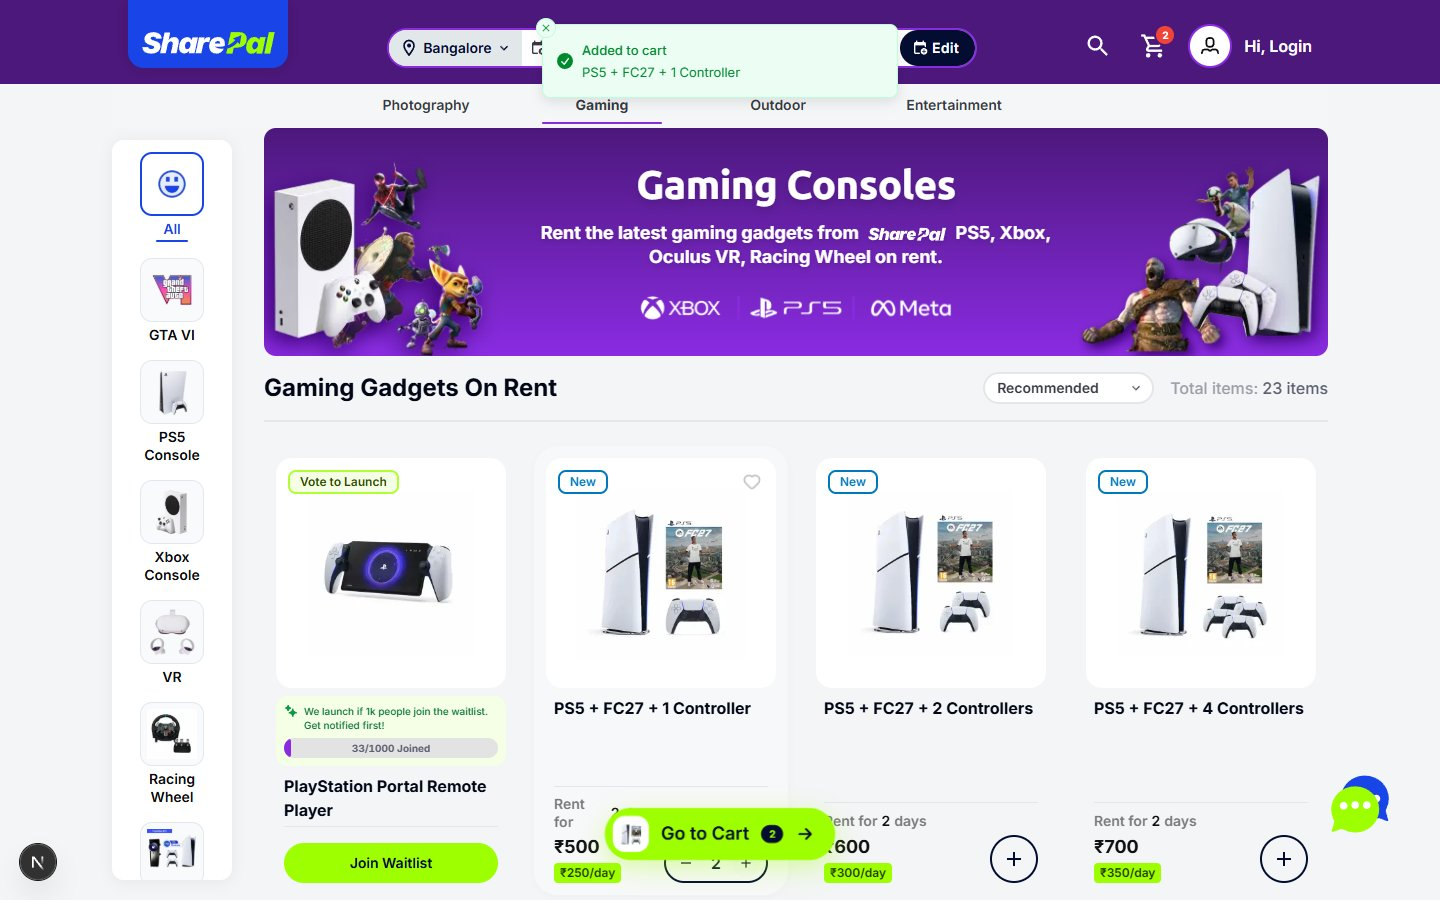
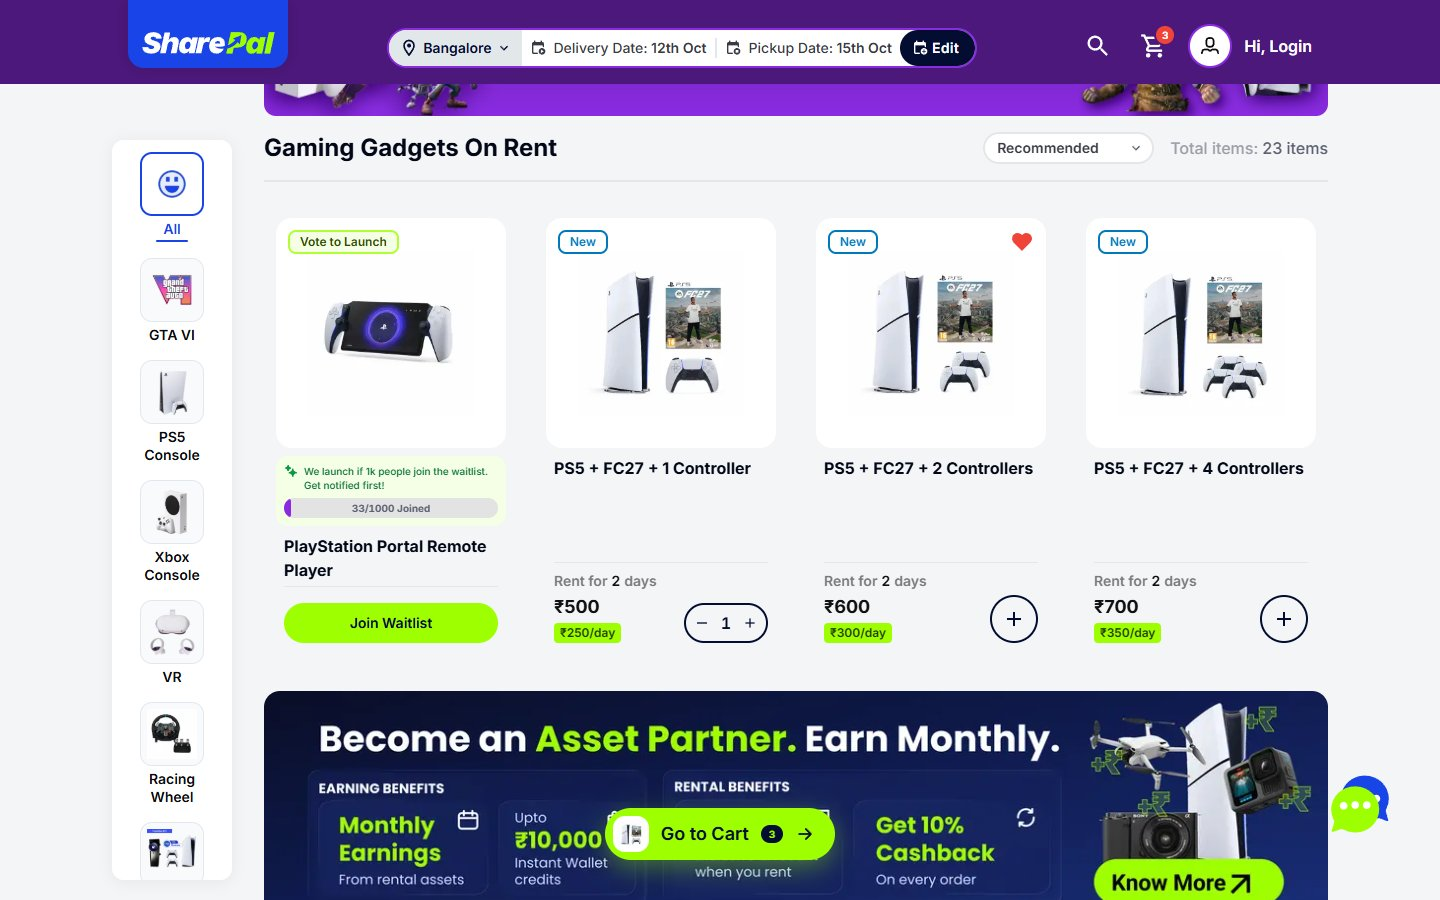
Link the live deployment and refresh the cart screenshot

diff --git a/README.md b/README.md
@@ -2,7 +2,7 @@
 
 A recreation of SharePal's [Bangalore gaming rentals page](https://sharepal.in/bangalore/gaming-gadgets-on-rent), built for the SharePal internship assignment. It copies the layout, sections, type scale, colours, spacing, images, buttons, interactions and animations, and the product grid is driven by the supplied `product-list.json`.
 
-**Live:** _added after deploy_ · **Stack:** Next.js 15 (App Router) · React 19 · TypeScript (strict) · Tailwind CSS 3 · Radix UI (Dialog, Accordion) · Sonner
+**Live:** https://sharepal-gaming-rentals-one.vercel.app · **Stack:** Next.js 15 (App Router) · React 19 · TypeScript (strict) · Tailwind CSS 3 · Radix UI (Dialog, Accordion) · Sonner
 
 ![Desktop, 1440px](docs/desktop.jpg)
 
@@ -49,7 +49,7 @@ I kept SharePal's design language and changed things that would trip a first-tim
 9. **Accessibility.** Real buttons and headings, labelled icon buttons, `aria-pressed` on toggles, a labelled progress bar, focus rings for keyboard users, and reduced-motion support (the marquee pauses).
 10. **Small fixes.** The waitlist counter was white on light grey and is now readable. The live "What is the minimum rental period?" answer had copy pasted from another page ("participation amount of ₹1 lakh"); it now explains the 1-day minimum that follows from SharePal's own billing rule.
 
-![Cart pill and stepper](docs/cart.jpg)
+![Dates set: totals, quantity stepper, wishlist and the Go to Cart pill](docs/cart.jpg)
 
 ## Run it
 
